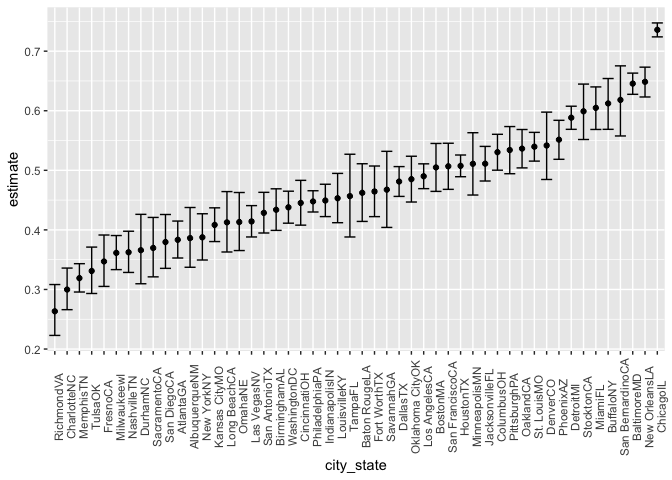
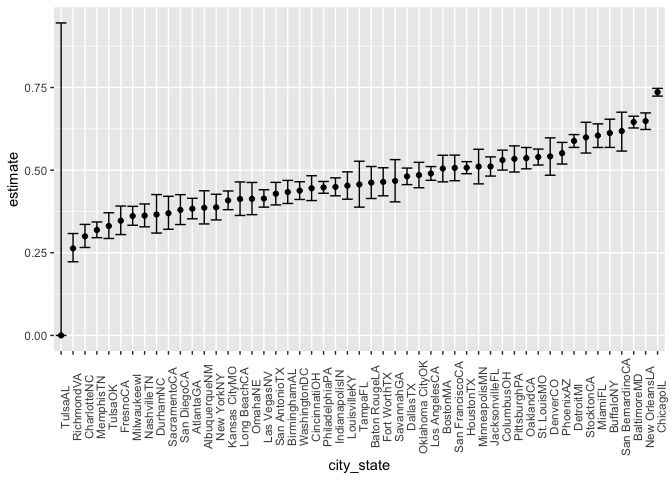
writing comments

diff --git a/p8105_hw5_yg2762.md b/p8105_hw5_yg2762.md
@@ -29,7 +29,9 @@ library(rvest)
     ## 
     ##     guess_encoding
 
-Problem 1
+## Problem 1
+
+Tidying up data
 
 ``` r
 homicide_df = 
@@ -41,9 +43,10 @@ homicide_df =
     disposition =="Closed without arrest" ~ "unsolved",
     disposition =="Open/No arrest" ~"unsolved",
     disposition =="Closed by arrest" ~ "solved")) %>% 
-  relocate(city_state) %>% 
-  filter(city_state !="TulsaAL")
+  relocate(city_state)
 ```
+
+`prop.test` for Baltimore MD
 
 ``` r
 baltimore_df = 
@@ -71,6 +74,8 @@ baltimore_test %>%
     ##   estimate statistic  p.value parameter conf.low conf.high method    alternative
     ##      <dbl>     <dbl>    <dbl>     <int>    <dbl>     <dbl> <chr>     <chr>      
     ## 1    0.646      239. 6.46e-54         1    0.628     0.663 1-sample… two.sided
+
+`prop.test` for each of the cities, writing function
 
 ``` r
 prop_test_function = function(city_df){
@@ -107,6 +112,11 @@ result_df =
   select(city_state, estimate, starts_with("conf"))
 ```
 
+    ## Warning in prop.test(x = city_summary %>% pull(unsolved), n = city_summary %>% :
+    ## Chi-squared approximation may be incorrect
+
+Create a plot that shows the estimates and CIs for each city
+
 ``` r
 result_df %>% 
   mutate(city_state = fct_reorder(city_state, estimate)) %>% 
@@ -118,21 +128,12 @@ result_df %>%
 
 ![](p8105_hw5_yg2762_files/figure-gfm/unnamed-chunk-6-1.png)<!-- -->
 
-Problem 2 dataframe containing all file names
+## Problem 2
 
-``` r
-file_names = 
-  list.files (path = "./data", pattern = NULL, all.files = FALSE,
-           full.names = FALSE, recursive = FALSE,
-           ignore.case = FALSE, include.dirs = FALSE, no.. = FALSE)
-study_df = tibble (file_names)
-```
-
-``` r
-files = function (x) {
-  read_file = read_csv(file = x)
-}
-```
+Start with a dataframe `study_df` containing all file names, then
+iterate over file names and read in data for each subject using
+`purrr::map` and saving the result as a new variable `file_contents` in
+the dataframe
 
 ``` r
 file_names = 
@@ -347,24 +348,36 @@ study_df = study_df %>%
     ## ℹ Use `spec()` to retrieve the full column specification for this data.
     ## ℹ Specify the column types or set `show_col_types = FALSE` to quiet this message.
 
+Tidy the result. Manipulate file names to include control arm and
+subject ID
+
 ``` r
 tidy_study_df = study_df %>% 
   unnest (cols = file_contents) %>% 
   separate(file_names, into = c("file_names", "."), sep = 6) %>%
   select(-.) %>% 
+  mutate(arm = ifelse(str_detect(file_names,"con"),"con", "exp")) %>% 
+  relocate(arm) %>% 
   pivot_longer(
     week_1:week_8,
     names_to = "week",
     values_to = "value"
   ) 
-
-ggplot(tidy_study_df, aes(x = week, y = value)) + 
-  geom_line(aes(group = file_names, color = file_names), alpha=0.8)
 ```
 
-![](p8105_hw5_yg2762_files/figure-gfm/unnamed-chunk-10-1.png)<!-- -->
+Make a spaghetti plot showing observations on each subject over time.
+According to the plot, subjects in experiment group tend to have higher
+value over time, while subjects in control group have relative constant
+value over time.
 
-Problem 3
+``` r
+ggplot(tidy_study_df, aes(x = week, y = value)) + 
+  geom_line(aes(group = file_names, color = arm)) + facet_wrap(~arm)
+```
+
+![](p8105_hw5_yg2762_files/figure-gfm/unnamed-chunk-9-1.png)<!-- -->
+
+## Problem 3
 
 ``` r
 library(tidyverse)
@@ -377,6 +390,8 @@ iris_with_missing = iris %>%
   janitor::clean_names()
 ```
 
+Write function
+
 ``` r
 fill = function(x) {
   
@@ -387,6 +402,8 @@ fill = function(x) {
   
 }
 ```
+
+Apply function to dataset
 
 ``` r
 output = map(iris_with_missing, fill)
